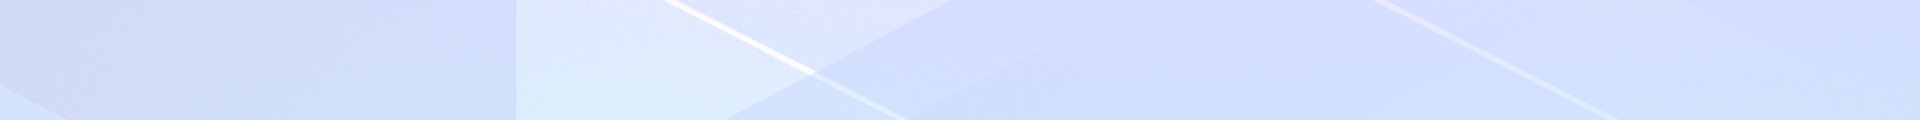
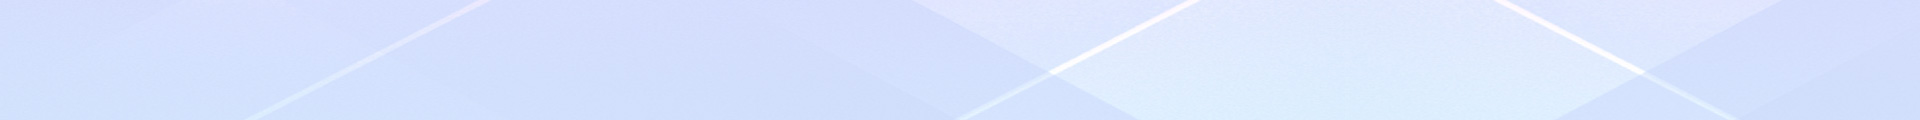
调整页面布局

diff --git a/src/views/pages/Home/MyAchievement/index.vue b/src/views/pages/Home/MyAchievement/index.vue
@@ -19,12 +19,12 @@
 
   //- 创角指数
   .data-panel.mgt2.ff-rn
-    data-box.mgr2(
-      :data='item',
-      :colIdx='idx',
-      :toFixed="item.toFixed"
-      v-for='(item,key, idx) in panelList',
-      :key='idx'
+    .pd1.flex-1(v-for='(item,key, idx) in panelList',)
+      data-box(
+        :data='item',
+        :colIdx='idx',
+        :toFixed="item.toFixed"
+        :key='idx'
     )
   //- 图表
   .mgt3
@@ -63,7 +63,6 @@ export default {
   },
   data () {
     return {
-      chNumber: ['一', '二', '三', '四', '五', '六', '七', '八', '九', '十', '十一', '十二'],
       model: {
         gameName: '',
         areaName: '',
@@ -121,7 +120,8 @@ export default {
   },
   computed: {
     halfLayout () {
-      return this.selTimeRange === '本周'
+      // return this.selTimeRange === '本周'
+      return true
     },
   },
   created () {
@@ -132,7 +132,7 @@ export default {
       // 排序
       this.$utils.sort(data, key, false)
 
-      // 填充数据
+      // 插入数据
       const fullList = this.insertData(data, key, range)
       // 把数据转换成图表需要的格式
       this.fillVChartData(fullList)
@@ -216,7 +216,7 @@ export default {
         case '本周':
           var date = new Date(item.timeKey)
           console.log('format', date.getDay())
-          ret = '星期' + this.chNumber[date.getDay()]
+          ret = '周' + '日一二三四五六'.charAt(date.getDay())
           break
         case '本月':
           ret = index + '日'

diff --git a/src/views/layout/TopBar.vue b/src/views/layout/TopBar.vue
@@ -2,14 +2,14 @@
 .top-bar
   .banner.jc-between.pr
     .user-info.ff-rn.ai-center.pdl2
-      el-image.avatar.mg3(:src="userInfo.avtarUrl")
-      .ff-cn.mgl2.strong
-        .ff-rn.ai-center.fs-l
+      img.avatar.mg3(:src="userInfo.avtarUrl")
+      .ff-cn.mgl2
+        .ff-rn.ai-center.fs-b
           span {{userInfo.username}}
           img.mgl2.fit-contain.flex-center(:src="userInfo.level | formatBadge")
           span.mgl1 {{userInfo.level | formatLevel}}
 
-        .ff-rn.ai-center.mgt2.fs-b
+        .ff-rn.ai-center.mgt2.fs-m
           img(:src="require('@/assets/img/ic_job.png')" fit="contain")
           span.mgl1 {{userInfo.job | formatJob}}
           span.mgl1 经验 {{userInfo.experiences}}

diff --git a/src/views/layout/SubMenu.vue b/src/views/layout/SubMenu.vue
@@ -4,9 +4,9 @@
     .avatar-bg.pa
       img.fit-contain.w200.h200(:src='userInfo.avtarUrl')
     .jc-center.mgt3.overflow-hidden
-      el-image.avatar.mgt1(:src='userInfo.avtarUrl')
+      img.avatar.mgt1(:src='userInfo.avtarUrl')
     .jc-center.mgt3
-      span.mgx3.black.fs-l.omit {{userInfo.username}}
+      span.mgx3.black.fs-b.omit {{userInfo.username}}
     .ff-rn.jc-center.mgb3.mgt1
       img.mgl1.fit-contain(:src="userInfo.level | formatBadge")
       span.black.mgl1.fs-m {{ userInfo.level | formatLevel }}

diff --git a/src/views/pages/Department/index.vue b/src/views/pages/Department/index.vue
@@ -2,7 +2,7 @@
   .Depart
     .ff-rn
       .org-tree.bg-white.pd3
-        el-tree(:data="model.departsList" node_key="id" :default-expanded-keys="[1,2]" :props="props" @node-click="handleNodeClick")
+        el-tree(:data="model.departsList" node_key="id" default-expand-all :props="props" @node-click="handleNodeClick")
       .user-list.mgl2.pd2
         .ff-rn.fs-m.bg-white.pd2.opt-bar
           .flex-1.jc-end

diff --git a/src/views/pages/Home/MyAchievement/comps/DataBox.vue b/src/views/pages/Home/MyAchievement/comps/DataBox.vue
@@ -1,5 +1,5 @@
 <template lang='pug'>
-  .data-box.pd2.pr
+  .data-box.pd2.pr.flex-1
     h3 {{data.title}}
     h1.jc-center.mgy4.mgr2.warning
       span(v-if="toFixed") {{data.value| toFixed}}
@@ -61,8 +61,7 @@ export default {
   .data-box
     background-color #fff
     border-radius 10px
-    min-width 224px
-    max-width 250px
+    min-width 250px
     min-height 132px
     .green
       color green
